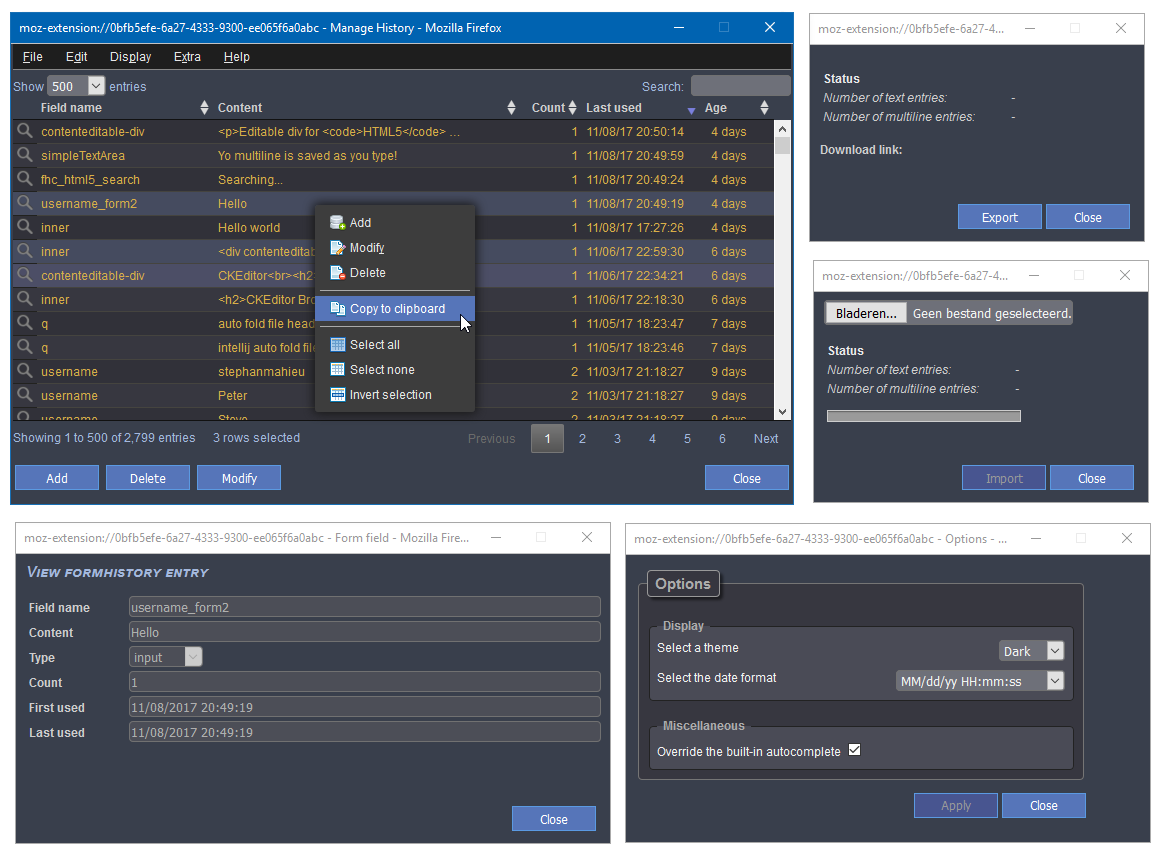
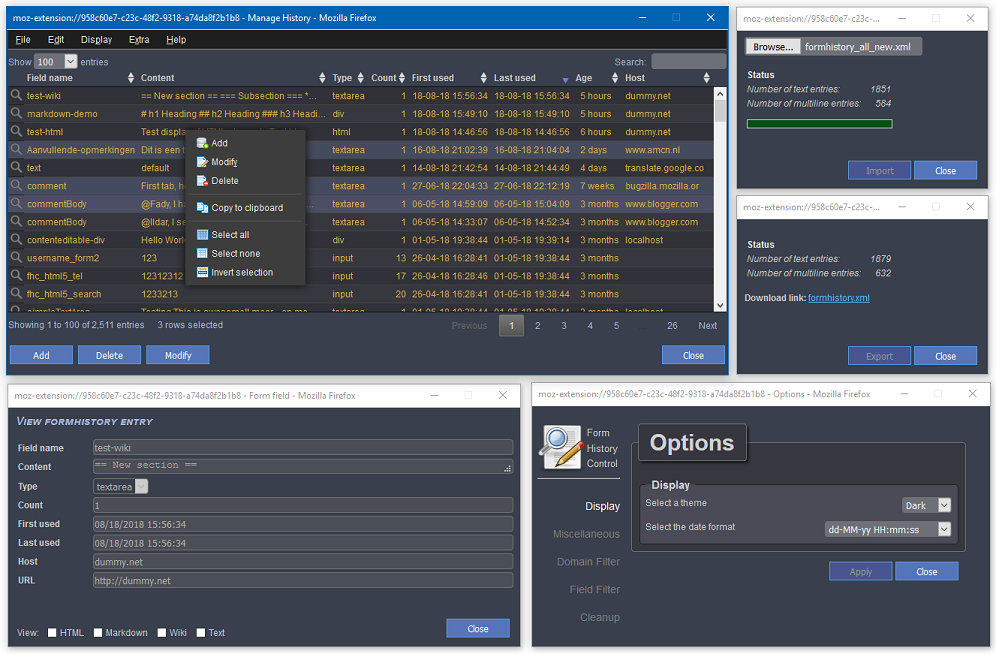
Update manual, update images, animated gifs

diff --git a/docsource/Manual/Manual.md b/docsource/Manual/Manual.md
@@ -46,6 +46,8 @@ You can search on multiple keywords by separating them with a space.
 To view de details for an item in the list without closing the list itself, click the + symbol on the left.
 To see the details in a separate window double-click the item, a [View Entry](#view-entry) dialog will open.
 
+[See the popdown in action!](./images/Popdown-Animated.gif)
+
 ## The main dialog
 Open the main dialog by right-clicking on Form History Control toolbar icon.
 
@@ -66,6 +68,8 @@ To see the details in a separate window double-click the item, a [View Entry](#v
 Right-clicking and selecting modify will open the [Edit Entry](#edit-entry) dialog.
 It is also possible to add a complete new item.
 
+[See the Main dialog in action!](./images/Popup-Animated.gif)
+
 ## Context menu
 
 When Form History Control is installed, you can right-click anywhere in a browser window to bring up the context menu.
@@ -73,6 +77,9 @@ At the bottom of the context menu a Form History Control submenu will be availab
 open the Main Form History Control dialog or Restore/Fill form fields that may be present in the currently displayed webpage. 
 
 ![The Contextmenu](./images/Contextmenu.png "Contextmenu")
+
+[See the context menu in action!](./images/Contextmenu-Animated.gif)
+
 
 ## Preferences
 
@@ -88,24 +95,64 @@ There are multiple ways to open the preferences dialog:
 - Opening the add-ons page from the Firefox menu will show all installed add-ons, on the right-side of Form History Control
   there is a Preferences button that will also show the preferences but in a browser window instead of a separate dialog
 
-### Clean-up
+### Miscellaneous
+Here you can choose to override the built-in the Firefox autocomplete feature. This option basically disables the
+built-in autocomplete dropdown-lists and the internal formhistory datastore.
 
-Will be available for version 2.1.0.0
+When override is enabled the autocomplete dropdown lists are generated by the Form History Control add-on using
+the formhistory exclusivly maintained by the add-on.
+
+![The Preferences](./images/PreferencesMiscellaneous.png "Preferences Miscellaneous")
+
+### Domain Filter
+If _Allow All_ is enabled (the default), the Form History Control add-on will remember form history for all pages.
+
+To exclude certain pages from storing formhistory two options are available, either **blacklist** the domains for sites you
+wish to exclude or **whitelist** only the domains for sites you do wish to remember.
+
+![The Preferences](./images/PreferencesDomainfilter.png "Preferences Domain Filter")
+
+If either the blacklist or whitelist option is enabled the Form History Control icon in the toolbar will reflect the
+current state of saving allowed (green + sign) or saving disallowed (red - sign).
+ 
+[See the Domain Filter in action](./images/Domainfilter-Animated.gif "Domain Filter in action")
+
+### Field Filter
+To prevent storing formhistory for certain fields add the name of the field to the Field Filter list.
+_Standard password type fields are never stored and do not have to be added here._ 
+
+![The Preferences](./images/PreferencesFieldfilter.png "Preferences Field Filter")
+
+### Clean-up
+Automatic cleanup will periodically (every 15 minutes) remove entries from the formhistory storage if older than the
+set number of days.
+
+It is recommended that you enable this option. If the storage contains a very large number of entries the add-on can
+become sluggish (particularly the popdown dialog will be affected).
+
+![The Preferences](./images/PreferencesCleanup.png "Preferences Cleanup")
+
+Depending on the resources of the underlying system try to keep the number of entries below 2500.
 
 ### Themes
 
-The theme selector allows you to choose a color theme for the Form Histor6y Control.
+In the Display options the theme selector allows you to choose a color theme for the Form Histor6y Control.
 When choosing a different theme, the preference dialog is immediately change to reflect the new setting.
 Only after the _Apply_ button is clicked will the new theme be activated for all dialogs.
 
-#### Dark Theme
-This is the Dark theme
-![The Dark Theme](./images/DarkTheme.png "Dark Theme")
+[See Theming in action!](./images/Themes-Animated.gif)
 
 #### Default theme
 This is the Default theme
 ![The Default Theme](./images/DefaultTheme.png "Default Theme")
 
+#### Dark Theme
+This is the Dark theme
+![The Dark Theme](./images/DarkTheme.png "Dark Theme")
+
+#### Blue Theme
+This is the Blue theme
+![The Blue Theme](./images/BlueTheme.png "Dark Theme")
 
 ## Import / Export
 Exporting lets you save the content of the current collected set of form history items to a single (XML) file.
@@ -128,6 +175,8 @@ for export and show a clickable download link.
 In order to save the file click on the download link, the browser will then give you the option to either save or open
 the link. If left-click does not work do a right-click and choose option 'Save link as...' from the menu.   
 
+[See Exporting entries in action!](./images/Export-Animated.gif)
+
 ### Import
 Open the Import dialog from the File submenu in the menu-bar of [The main dialog](#the-main-dialog).
 
@@ -139,6 +188,8 @@ Form History Control are supported.
 After choosing the file hit the Import button. Duplicate fields already present will not be imported.
 When the import succeeds, the dialog will display the amount of text-fields and editor-fields that have been imported
 (including duplicate fields).
+
+[See Importing entries in action!](./images/Import-Animated.gif)
 
 ## View / Edit entries
 

diff --git a/docsource/index.md b/docsource/index.md
@@ -3,7 +3,7 @@
 # Form History Control (II)
 
 ## Manual
-- [Introduction](Manual/manual.md)
+- [Introduction](Manual/Manual.md)
 - [Frequently Asked Questions](Manual/FAQ.md)
 - [Known Issues](Manual/KnownIssues.md)
 ## FHC Export
